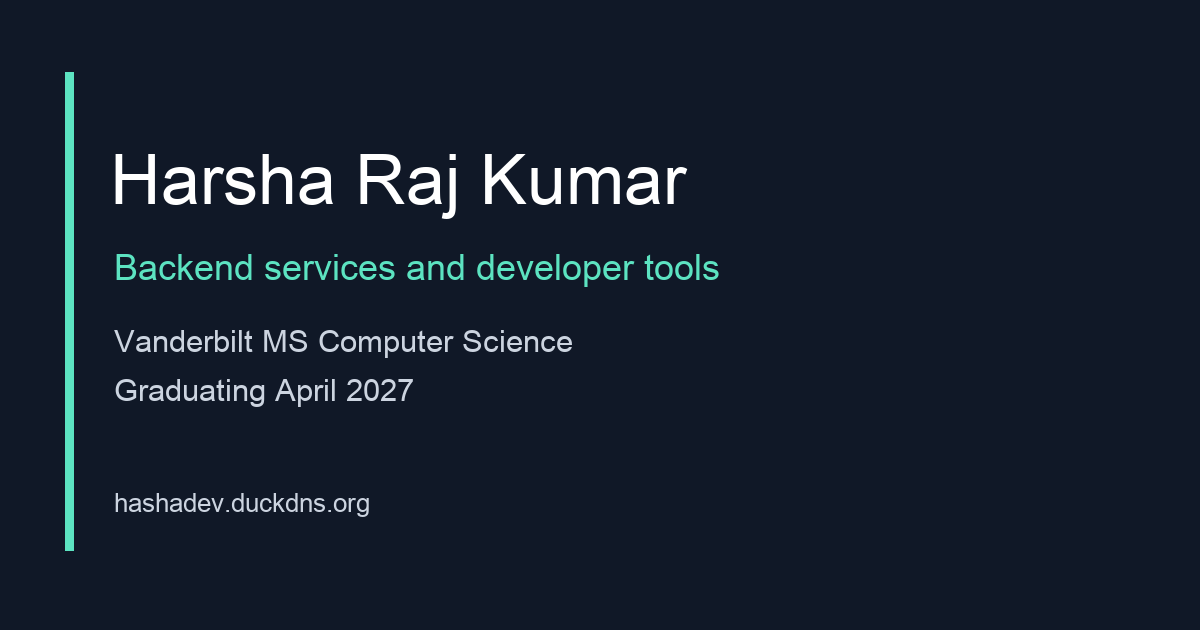
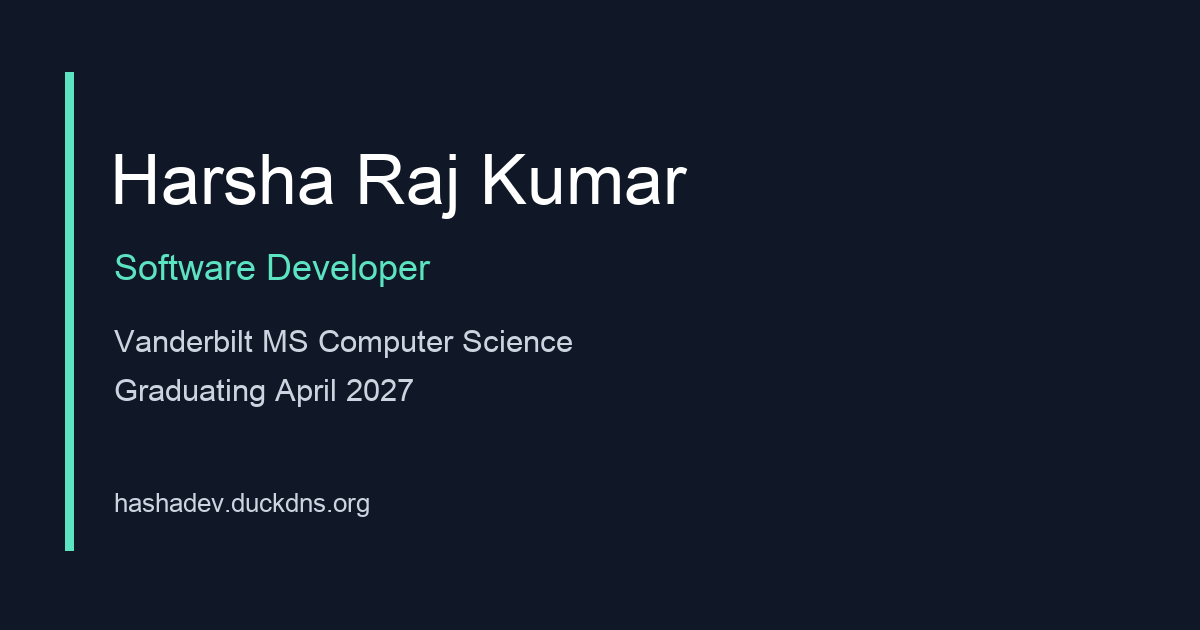
Broaden portfolio positioning to software developer
Use Software Developer in the hero and social metadata while keeping individual project descriptions technically specific. Prepared with Codex assistance.

Changed region(s): [[0.0925, 0.3921, 0.6167, 0.4524]]

diff --git a/src/App.jsx b/src/App.jsx
@@ -89,7 +89,7 @@ export default function App() {
     <header className="site-header"><a className="wordmark" href="#about">HAR<span>SHA.</span></a><nav aria-label="Main navigation"><a href="#work">Work</a><a href="#experience">Experience</a><a href="#open-source">Open source</a><a className="nav-contact" href="mailto:harsha.raj.kumar@vanderbilt.edu">Let’s talk <ArrowUpRight size={15}/></a></nav></header>
     <main id="main">
       <section className="hero wrap" id="about">
-        <div className="hero-main"><div className="availability"><span/>Seeking 2027 new-grad roles</div><h1>Harsha Raj Kumar<span>Backend services.<br/>Tools for builders.</span></h1><p className="hero-description">I build event-driven services and developer tools, and maintain a collaborative C++ storage-engine project. MS Computer Science at Vanderbilt, graduating April 2027.</p><div className="hero-actions"><a className="button primary" href="#work">Explore my work <ArrowRight size={17}/></a><a className="button secondary" href="/Harsha%20Raj%20Kumar%20CV.pdf" target="_blank" rel="noreferrer"><FileText size={16}/>Resume</a><External className="icon-link" href={github}><Code2 size={19}/>GitHub</External></div></div>
+        <div className="hero-main"><div className="availability"><span/>Seeking 2027 new-grad roles</div><h1>Harsha Raj Kumar<span>Software Developer.</span></h1><p className="hero-description">I build event-driven services and developer tools, and maintain a collaborative C++ storage-engine project. MS Computer Science at Vanderbilt, graduating April 2027.</p><div className="hero-actions"><a className="button primary" href="#work">Explore my work <ArrowRight size={17}/></a><a className="button secondary" href="/Harsha%20Raj%20Kumar%20CV.pdf" target="_blank" rel="noreferrer"><FileText size={16}/>Resume</a><External className="icon-link" href={github}><Code2 size={19}/>GitHub</External></div></div>
         <aside className="hero-aside"><div className="aside-label">A CONTRIBUTION IN THE WILD</div><div className="upstream-symbol"><GitPullRequest size={35}/><span>PyTorch</span></div><h2>A small fix. <br/>In upstream core.</h2><p>Input validation and regression tests for a zero-dimension edge case in <code>torch.unravel_index</code>.</p><External href={upstream}>Read the accepted change</External><div className="aside-foot"><Check size={14}/>Accepted after maintainer review</div></aside>
       </section>
       <section className="work-section wrap" id="work"><div className="section-heading"><div><p className="eyebrow">SELECTED WORK</p><h2>Built to be understood.</h2></div><p>Three projects. The systems behind them,<br className="desktop-break"/> and the decisions I can explain.</p></div>
@@ -103,7 +103,7 @@ export default function App() {
       </div></section>
       <section className="open-section" id="open-source"><div className="wrap open-grid"><div><p className="eyebrow">OPEN SOURCE</p><h2>Building includes<br/>reviewing and maintaining.</h2><p>Implementation is one kind of contribution. Design review, integration, and giving other contributors clear credit are part of the work too.</p></div><div className="contribution-list"><External href={upstream}><span><small>PYTORCH / ACCEPTED FIX</small><strong>Input validation & regression tests</strong><p>Zero-size shape handling in torch.unravel_index. The contribution acknowledges AI assistance and maintainer co-authorship.</p></span></External><External href={`${github}/lsm_tree/issues/14`}><span><small>LSM-TREE / MAINTAINERSHIP</small><strong>WAL append ordering</strong><p>Reviewed explicit append offsets and requested ordering and recovery regression tests.</p></span></External></div></div></section>
       <section className="background-section wrap"><div><p className="eyebrow">EDUCATION</p><h3>Vanderbilt University</h3><p>MS Computer Science · Expected Apr 2027<br/>GPA 3.6/4.0</p><h3>VIT Chennai</h3><p>B.Tech Computer Science · May 2025<br/>GPA 3.5/4.0</p></div><div><p className="eyebrow">TOOLKIT</p><p className="toolkit">TypeScript / JavaScript · Python · C++ · Java · Go · SQL</p><p>Node / Express · FastAPI · Kafka / Redpanda · PostgreSQL · Redis · Docker · GitHub Actions · Prometheus · React · PyTorch</p></div><div><p className="eyebrow">PUBLICATION & CREDENTIALS</p><External href="https://ieeexplore.ieee.org/abstract/document/11399172">IEEE CICT 2025 co-author</External><p>GCN, GAT, and autoencoder approaches to Industrial IoT anomaly detection.</p><p>AWS Certified AI Practitioner<br/>Microsoft Azure AI Fundamentals</p></div></section>
-      <footer className="wrap"><div><p className="eyebrow">LET’S CONNECT</p><h2>Have a backend or platform<br/>role for a 2027 graduate?</h2><a className="contact-email" href="mailto:harsha.raj.kumar@vanderbilt.edu">harsha.raj.kumar@vanderbilt.edu <ArrowUpRight size={21}/></a></div><div className="footer-links"><External href={github}>GitHub</External><External href="https://linkedin.com/in/harsharajkumar273">LinkedIn</External><span>Nashville, TN · Open to relocation</span></div><div className="footer-bottom"><span>© {new Date().getFullYear()} Harsha Raj Kumar</span><a href="#about">Back to top ↑</a></div></footer>
+      <footer className="wrap"><div><p className="eyebrow">LET’S CONNECT</p><h2>Hiring a software developer<br/>graduating in 2027?</h2><a className="contact-email" href="mailto:harsha.raj.kumar@vanderbilt.edu">harsha.raj.kumar@vanderbilt.edu <ArrowUpRight size={21}/></a></div><div className="footer-links"><External href={github}>GitHub</External><External href="https://linkedin.com/in/harsharajkumar273">LinkedIn</External><span>Nashville, TN · Open to relocation</span></div><div className="footer-bottom"><span>© {new Date().getFullYear()} Harsha Raj Kumar</span><a href="#about">Back to top ↑</a></div></footer>
     </main>{selected && <CaseStudy project={selected} onClose={() => setSelected(null)}/>}
   </>;
 }

diff --git a/index.html b/index.html
@@ -4,9 +4,9 @@
     <meta charset="UTF-8" />
     <link rel="icon" type="image/svg+xml" href="/favicon.svg" />
     <meta name="viewport" content="width=device-width, initial-scale=1.0" />
-    <title>Harsha Raj Kumar | Software Engineer</title>
+    <title>Harsha Raj Kumar | Software Developer</title>
     <meta name="author" content="Harsha Raj Kumar" />
-    <meta name="description" content="Harsha Raj Kumar, Vanderbilt MS CS, expected April 2027. Backend services, developer tools, C++ storage-engine maintenance, and an accepted PyTorch contribution." />
+    <meta name="description" content="Harsha Raj Kumar, Vanderbilt MS CS, expected April 2027. Software developer building applications and developer tools, maintaining a C++ storage-engine project, and contributing to PyTorch." />
 
     <!-- Canonical URL. Update this (and the og:/twitter: URLs below) if you move hosting. -->
     <link rel="canonical" href="https://hashadev.duckdns.org/" />
@@ -14,18 +14,18 @@
     <!-- Open Graph (LinkedIn, Slack, Facebook, iMessage link previews) -->
     <meta property="og:type" content="website" />
     <meta property="og:site_name" content="Harsha Raj Kumar" />
-    <meta property="og:title" content="Harsha Raj Kumar | Software Engineer" />
-    <meta property="og:description" content="Harsha Raj Kumar, Vanderbilt MS CS, expected April 2027. Backend services, developer tools, C++ storage-engine maintenance, and an accepted PyTorch contribution." />
+    <meta property="og:title" content="Harsha Raj Kumar | Software Developer" />
+    <meta property="og:description" content="Harsha Raj Kumar, Vanderbilt MS CS, expected April 2027. Software developer building applications and developer tools, maintaining a C++ storage-engine project, and contributing to PyTorch." />
     <meta property="og:url" content="https://hashadev.duckdns.org/" />
     <meta property="og:image" content="https://hashadev.duckdns.org/og-image.png" />
     <meta property="og:image:width" content="1200" />
     <meta property="og:image:height" content="630" />
-    <meta property="og:image:alt" content="Harsha Raj Kumar - Software Engineer, MS CS @ Vanderbilt" />
+    <meta property="og:image:alt" content="Harsha Raj Kumar - Software Developer, MS CS @ Vanderbilt" />
 
     <!-- Twitter / X -->
     <meta name="twitter:card" content="summary_large_image" />
-    <meta name="twitter:title" content="Harsha Raj Kumar | Software Engineer" />
-    <meta name="twitter:description" content="Harsha Raj Kumar, Vanderbilt MS CS, expected April 2027. Backend services, developer tools, C++ storage-engine maintenance, and an accepted PyTorch contribution." />
+    <meta name="twitter:title" content="Harsha Raj Kumar | Software Developer" />
+    <meta name="twitter:description" content="Harsha Raj Kumar, Vanderbilt MS CS, expected April 2027. Software developer building applications and developer tools, maintaining a C++ storage-engine project, and contributing to PyTorch." />
     <meta name="twitter:image" content="https://hashadev.duckdns.org/og-image.png" />
   </head>
   <body>
